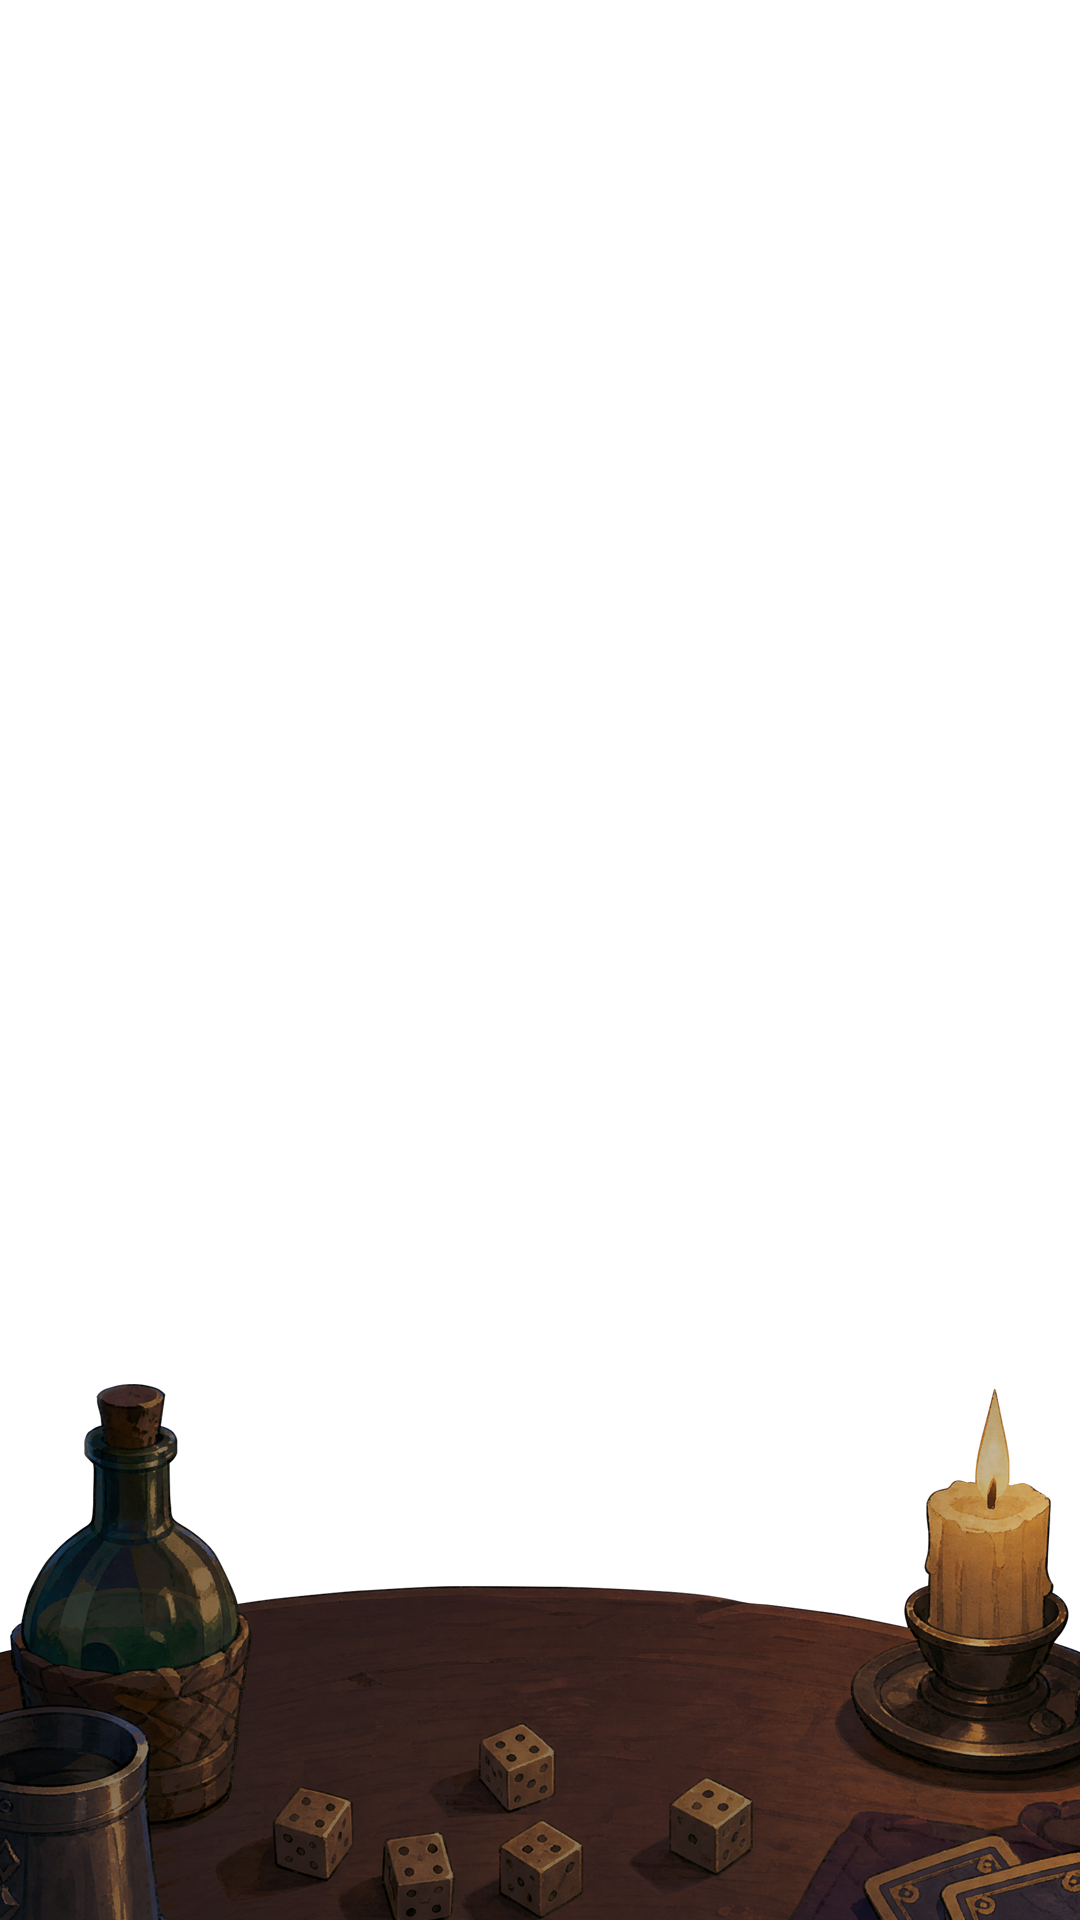
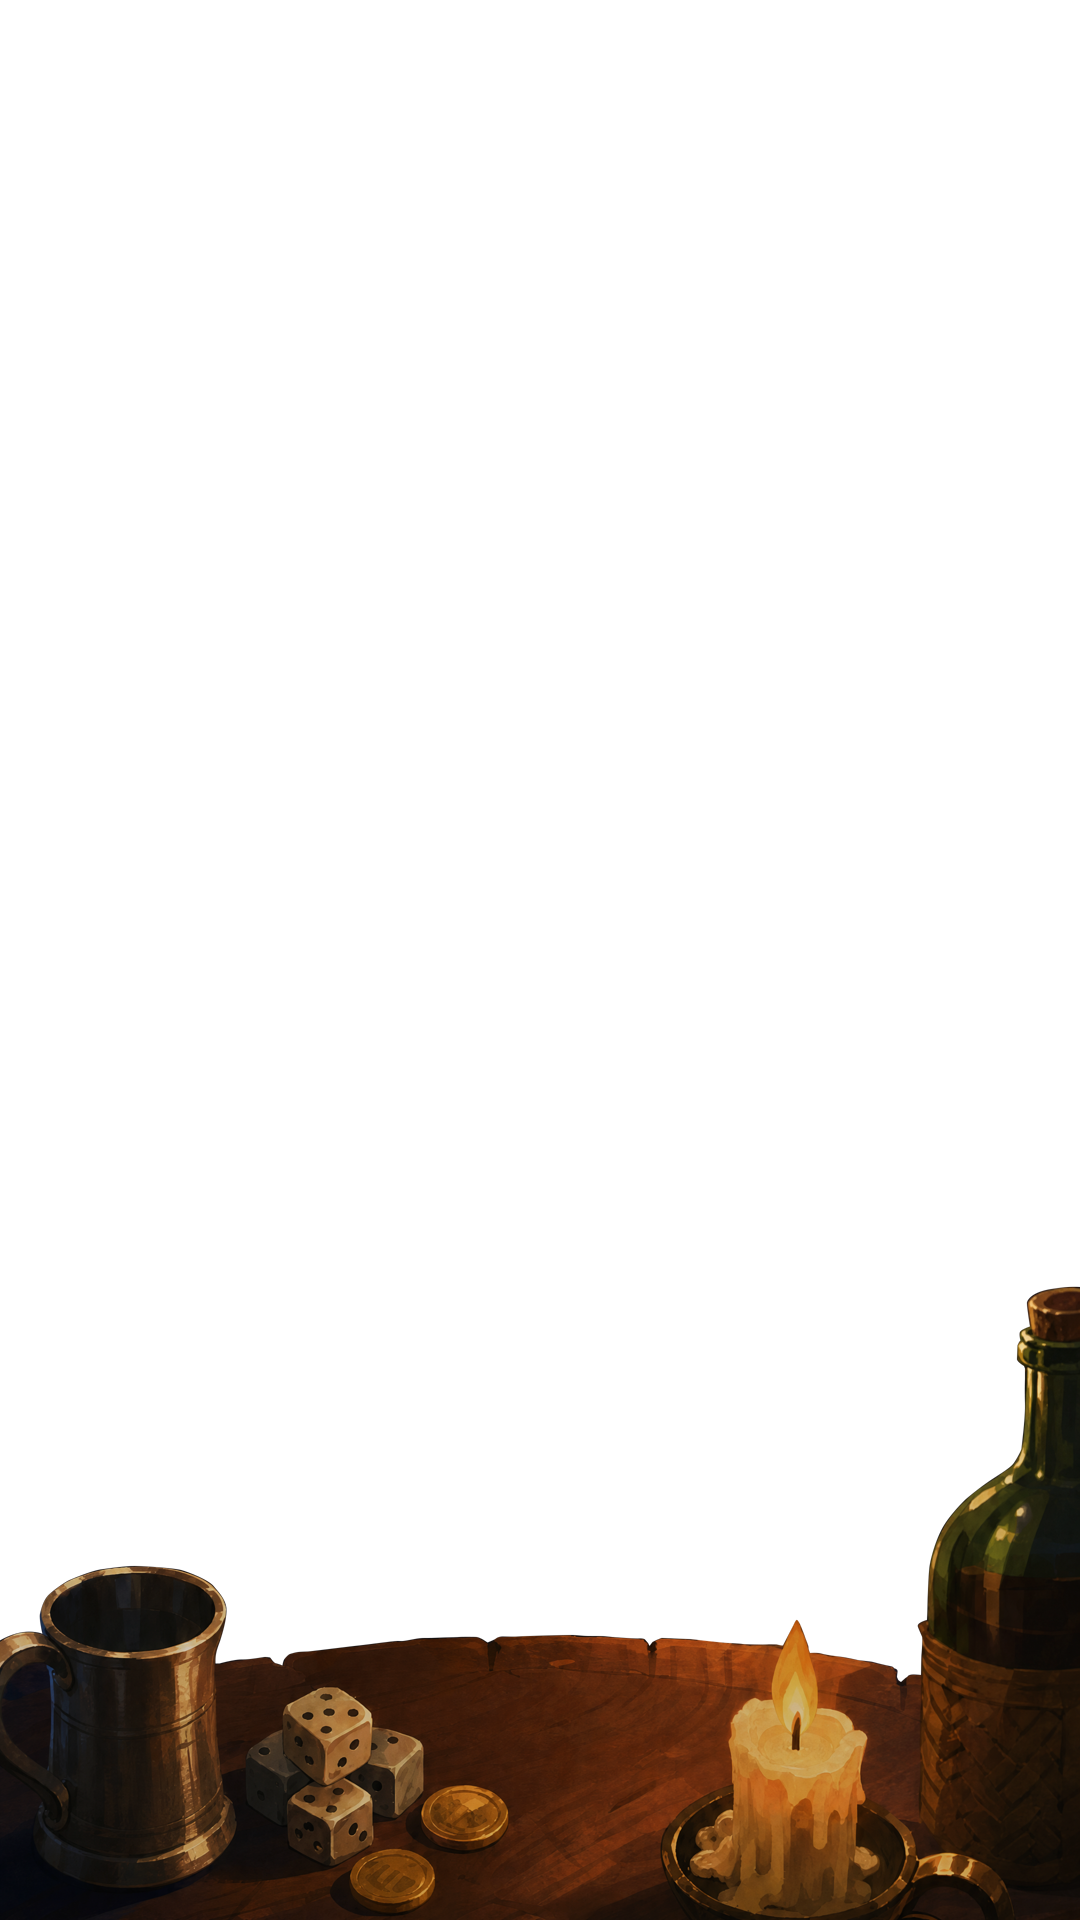
Main-screen mockup v2: updated layers — patron portraits in frames, price tags, GONE HOME, new scene sandwich

Changed region(s): [[0.0, 0.6562, 1.0, 1.0]]

diff --git a/_mockups/main_screen_new.html b/_mockups/main_screen_new.html
@@ -12,33 +12,36 @@ html,body{height:100%;background:#0a0806;overflow:hidden}
 body{display:flex;align-items:center;justify-content:center}
 
 /* ── the stage: a 9:16 canvas, everything positioned in % of it ── */
-#stage{position:relative;height:100vh;aspect-ratio:9/16;max-width:100vw;overflow:hidden;background:#0a0806}
-@supports not (aspect-ratio:1){#stage{width:56.25vh}}
+#stage{position:relative;height:100vh;aspect-ratio:9/16;max-width:100vw;overflow:hidden;background:#0a0806;--u:1vh}
 #stage>img.env{position:absolute;inset:0;width:100%;height:100%;object-fit:cover;display:block;pointer-events:none}
 
-/* scene sandwich: bg → grog → table → foreground → boards → top chips */
-#grog{position:absolute;left:26.5%;top:26.2%;width:49%;z-index:2;pointer-events:none;
+/* scene sandwich: bg → grog → table-front → frames → foreground → chips */
+#grog{position:absolute;left:6%;top:18.4%;width:66%;z-index:2;pointer-events:none;
   filter:drop-shadow(0 10px 24px rgba(0,0,0,.45))}
 #tableL{z-index:3}
-#fgL{z-index:4}
+#fgL{z-index:6}
 
-/* ── hanging chalkboards (2×2) ── */
-.board{position:absolute;width:36.5%;aspect-ratio:100/127;z-index:5;cursor:pointer;transition:transform .09s}
-.board:active{transform:scale(.975)}
-.board .cord{position:absolute;left:0;top:-11.5%;width:100%;height:12%;overflow:visible}
-.board .cord line{stroke:#0d0b09;stroke-width:6;stroke-linecap:round}
-.board .cord circle{fill:#1a1512}
-.board img.bd{position:absolute;inset:0;width:100%;height:100%;object-fit:fill;display:block;filter:drop-shadow(0 12px 20px rgba(0,0,0,.5))}
-.board .slate{position:absolute;left:11%;right:11%;top:9%;bottom:34%;display:flex;
-  flex-direction:column;align-items:center;justify-content:center;pointer-events:none}
-.board .strap{position:absolute;left:6%;right:6%;bottom:2.5%;height:17%;display:flex;
+/* ── patron frames (2×2) ── */
+.pframe{position:absolute;width:37.5%;aspect-ratio:2290/2462;z-index:5;cursor:pointer;transition:transform .09s}
+.pframe:active{transform:scale(.975)}
+.pframe img{position:absolute;display:block;pointer-events:none}
+.pframe .who{inset:0;width:100%;height:100%;object-fit:contain}
+.pframe .fr{inset:0;width:100%;height:100%;object-fit:contain;
+  filter:drop-shadow(0 10px 18px rgba(0,0,0,.55))}
+/* the price tag hangs off the left-post hook */
+.pframe .tag{left:-11%;top:29.5%;width:32%;transform:rotate(-3deg);
+  filter:drop-shadow(0 6px 10px rgba(0,0,0,.5))}
+.pframe .tagtxt{position:absolute;left:-8.5%;top:44%;width:27%;text-align:center;
+  transform:rotate(-3.5deg);font-family:'Alagard',serif;font-size:calc(var(--u)*2.6);
+  color:#4a3115;pointer-events:none}
+/* name strip (baked into the frame art, text overlays it) */
+.pframe .strap{position:absolute;left:14%;right:14%;bottom:4%;height:12%;display:flex;
   align-items:center;justify-content:center;pointer-events:none;
-  font-family:'Alagard',serif;font-size:calc(var(--u)*4.4);color:#4a3115;letter-spacing:1px}
-.b1{left:15.4%;top:45.2%}
-.b2{left:56.2%;top:45.2%}
-.b3{left:15.4%;top:73.6%}
-.b4{left:56.2%;top:73.6%}
-.b3,.b4{z-index:5}
+  font-family:'Alagard',serif;font-size:calc(var(--u)*3.2);color:#4a3115;letter-spacing:1px}
+.f1{left:9.5%;top:44.2%}
+.f2{left:53%;top:45.4%}
+.f3{left:10.3%;top:67.6%}
+.f4{left:53.4%;top:68.4%;width:36.2%;aspect-ratio:2131/2393}
 
 /* ── top chips ── */
 #hearts{position:absolute;left:3.6%;top:1.8%;z-index:8;display:flex;gap:3.5%;width:27%}
@@ -50,9 +53,6 @@ body{display:flex;align-items:center;justify-content:center}
 #goldplate .amt{position:absolute;left:26%;right:8%;top:0;bottom:0;display:flex;align-items:center;justify-content:center;
   font-family:'Alagard',serif;font-size:calc(var(--u)*5.6);color:#f3dfa6;letter-spacing:1px;
   text-shadow:0 2px 3px rgba(0,0,0,.7)}
-
-/* size unit: 1% of stage width, so type scales with the stage */
-#stage{--u:1vh}
 </style>
 </head>
 <body>
@@ -60,33 +60,31 @@ body{display:flex;align-items:center;justify-content:center}
   <img class="env" id="bgL" src="new_main/bg.png" alt="">
   <img id="grog" src="new_main/grog.png" alt="">
   <img class="env" id="tableL" src="new_main/table.png" alt="">
-  <img class="env" id="fgL" src="new_main/fg.png" alt="">
 
-  <!-- four seats -->
-  <div class="board b1">
-    <svg class="cord" viewBox="0 0 100 26" preserveAspectRatio="none">
-      <line x1="9" y1="26" x2="50" y2="3"/><line x1="91" y1="26" x2="50" y2="3"/><circle cx="50" cy="3" r="3.4"/></svg>
-    <img class="bd" src="new_main/board_full.png" alt="">
-    <div class="slate"></div><div class="strap"></div>
+  <!-- four seats: three patrons in, one gone home -->
+  <div class="pframe f1">
+    <img class="who" src="new_main/patron_hog.png" alt="">
+    <img class="fr" src="new_main/frame_v1.png" alt="">
+    <img class="tag" src="new_main/tag.png" alt=""><span class="tagtxt"></span>
+    <span class="strap"></span>
   </div>
-  <div class="board b2">
-    <svg class="cord" viewBox="0 0 100 26" preserveAspectRatio="none">
-      <line x1="9" y1="26" x2="50" y2="3"/><line x1="91" y1="26" x2="50" y2="3"/><circle cx="50" cy="3" r="3.4"/></svg>
-    <img class="bd" src="new_main/board_full.png" alt="">
-    <div class="slate"></div><div class="strap"></div>
+  <div class="pframe f2">
+    <img class="who" src="new_main/patron_toucan.png" alt="">
+    <img class="fr" src="new_main/frame_v2.png" alt="">
+    <img class="tag" src="new_main/tag.png" alt=""><span class="tagtxt"></span>
+    <span class="strap"></span>
   </div>
-  <div class="board b3">
-    <svg class="cord" viewBox="0 0 100 26" preserveAspectRatio="none">
-      <line x1="9" y1="26" x2="50" y2="3"/><line x1="91" y1="26" x2="50" y2="3"/><circle cx="50" cy="3" r="3.4"/></svg>
-    <img class="bd" src="new_main/board_full.png" alt="">
-    <div class="slate"></div><div class="strap"></div>
+  <div class="pframe f3">
+    <img class="who" src="new_main/patron_lizard.png" alt="">
+    <img class="fr" src="new_main/frame_v2.png" alt="">
+    <img class="tag" src="new_main/tag.png" alt=""><span class="tagtxt"></span>
+    <span class="strap"></span>
   </div>
-  <div class="board b4">
-    <svg class="cord" viewBox="0 0 100 26" preserveAspectRatio="none">
-      <line x1="9" y1="26" x2="50" y2="3"/><line x1="91" y1="26" x2="50" y2="3"/><circle cx="50" cy="3" r="3.4"/></svg>
-    <img class="bd" src="new_main/board_full.png" alt="">
-    <div class="slate"></div><div class="strap"></div>
+  <div class="pframe f4">
+    <img class="fr" src="new_main/frame_gone.png" alt="">
   </div>
+
+  <img class="env" id="fgL" src="new_main/fg.png" alt="">
 
   <!-- top chips -->
   <div id="hearts">
